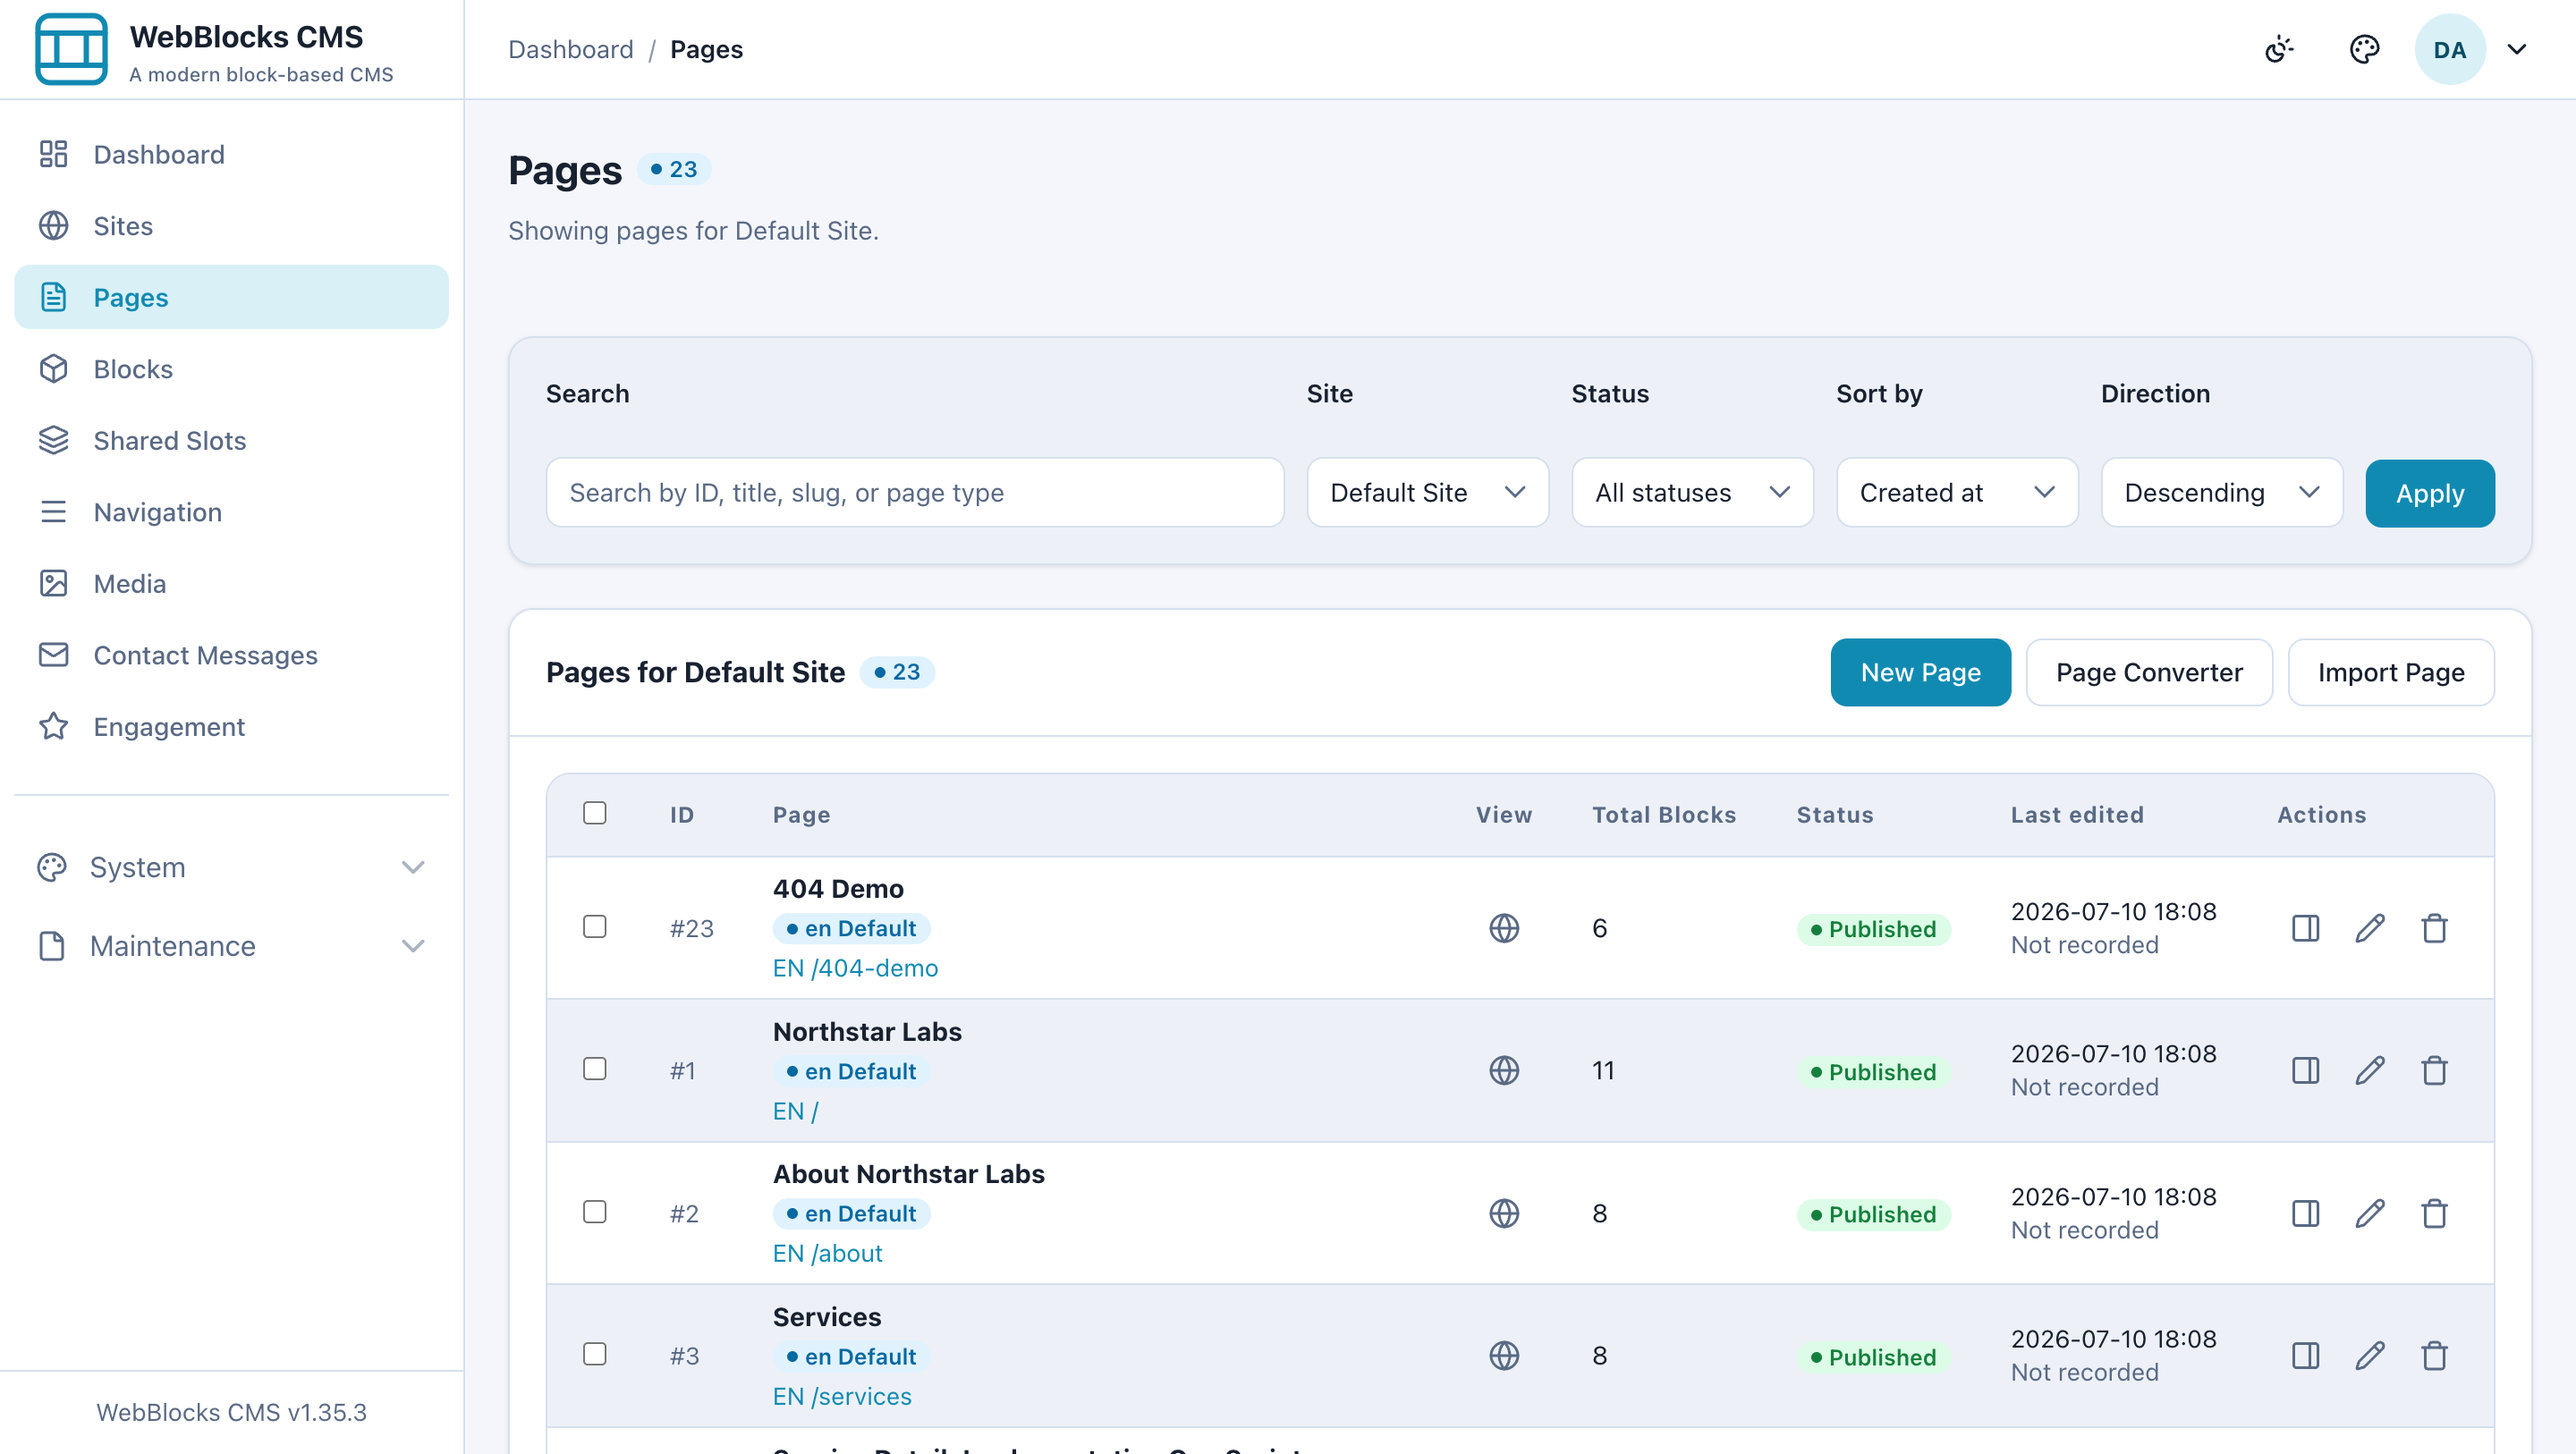
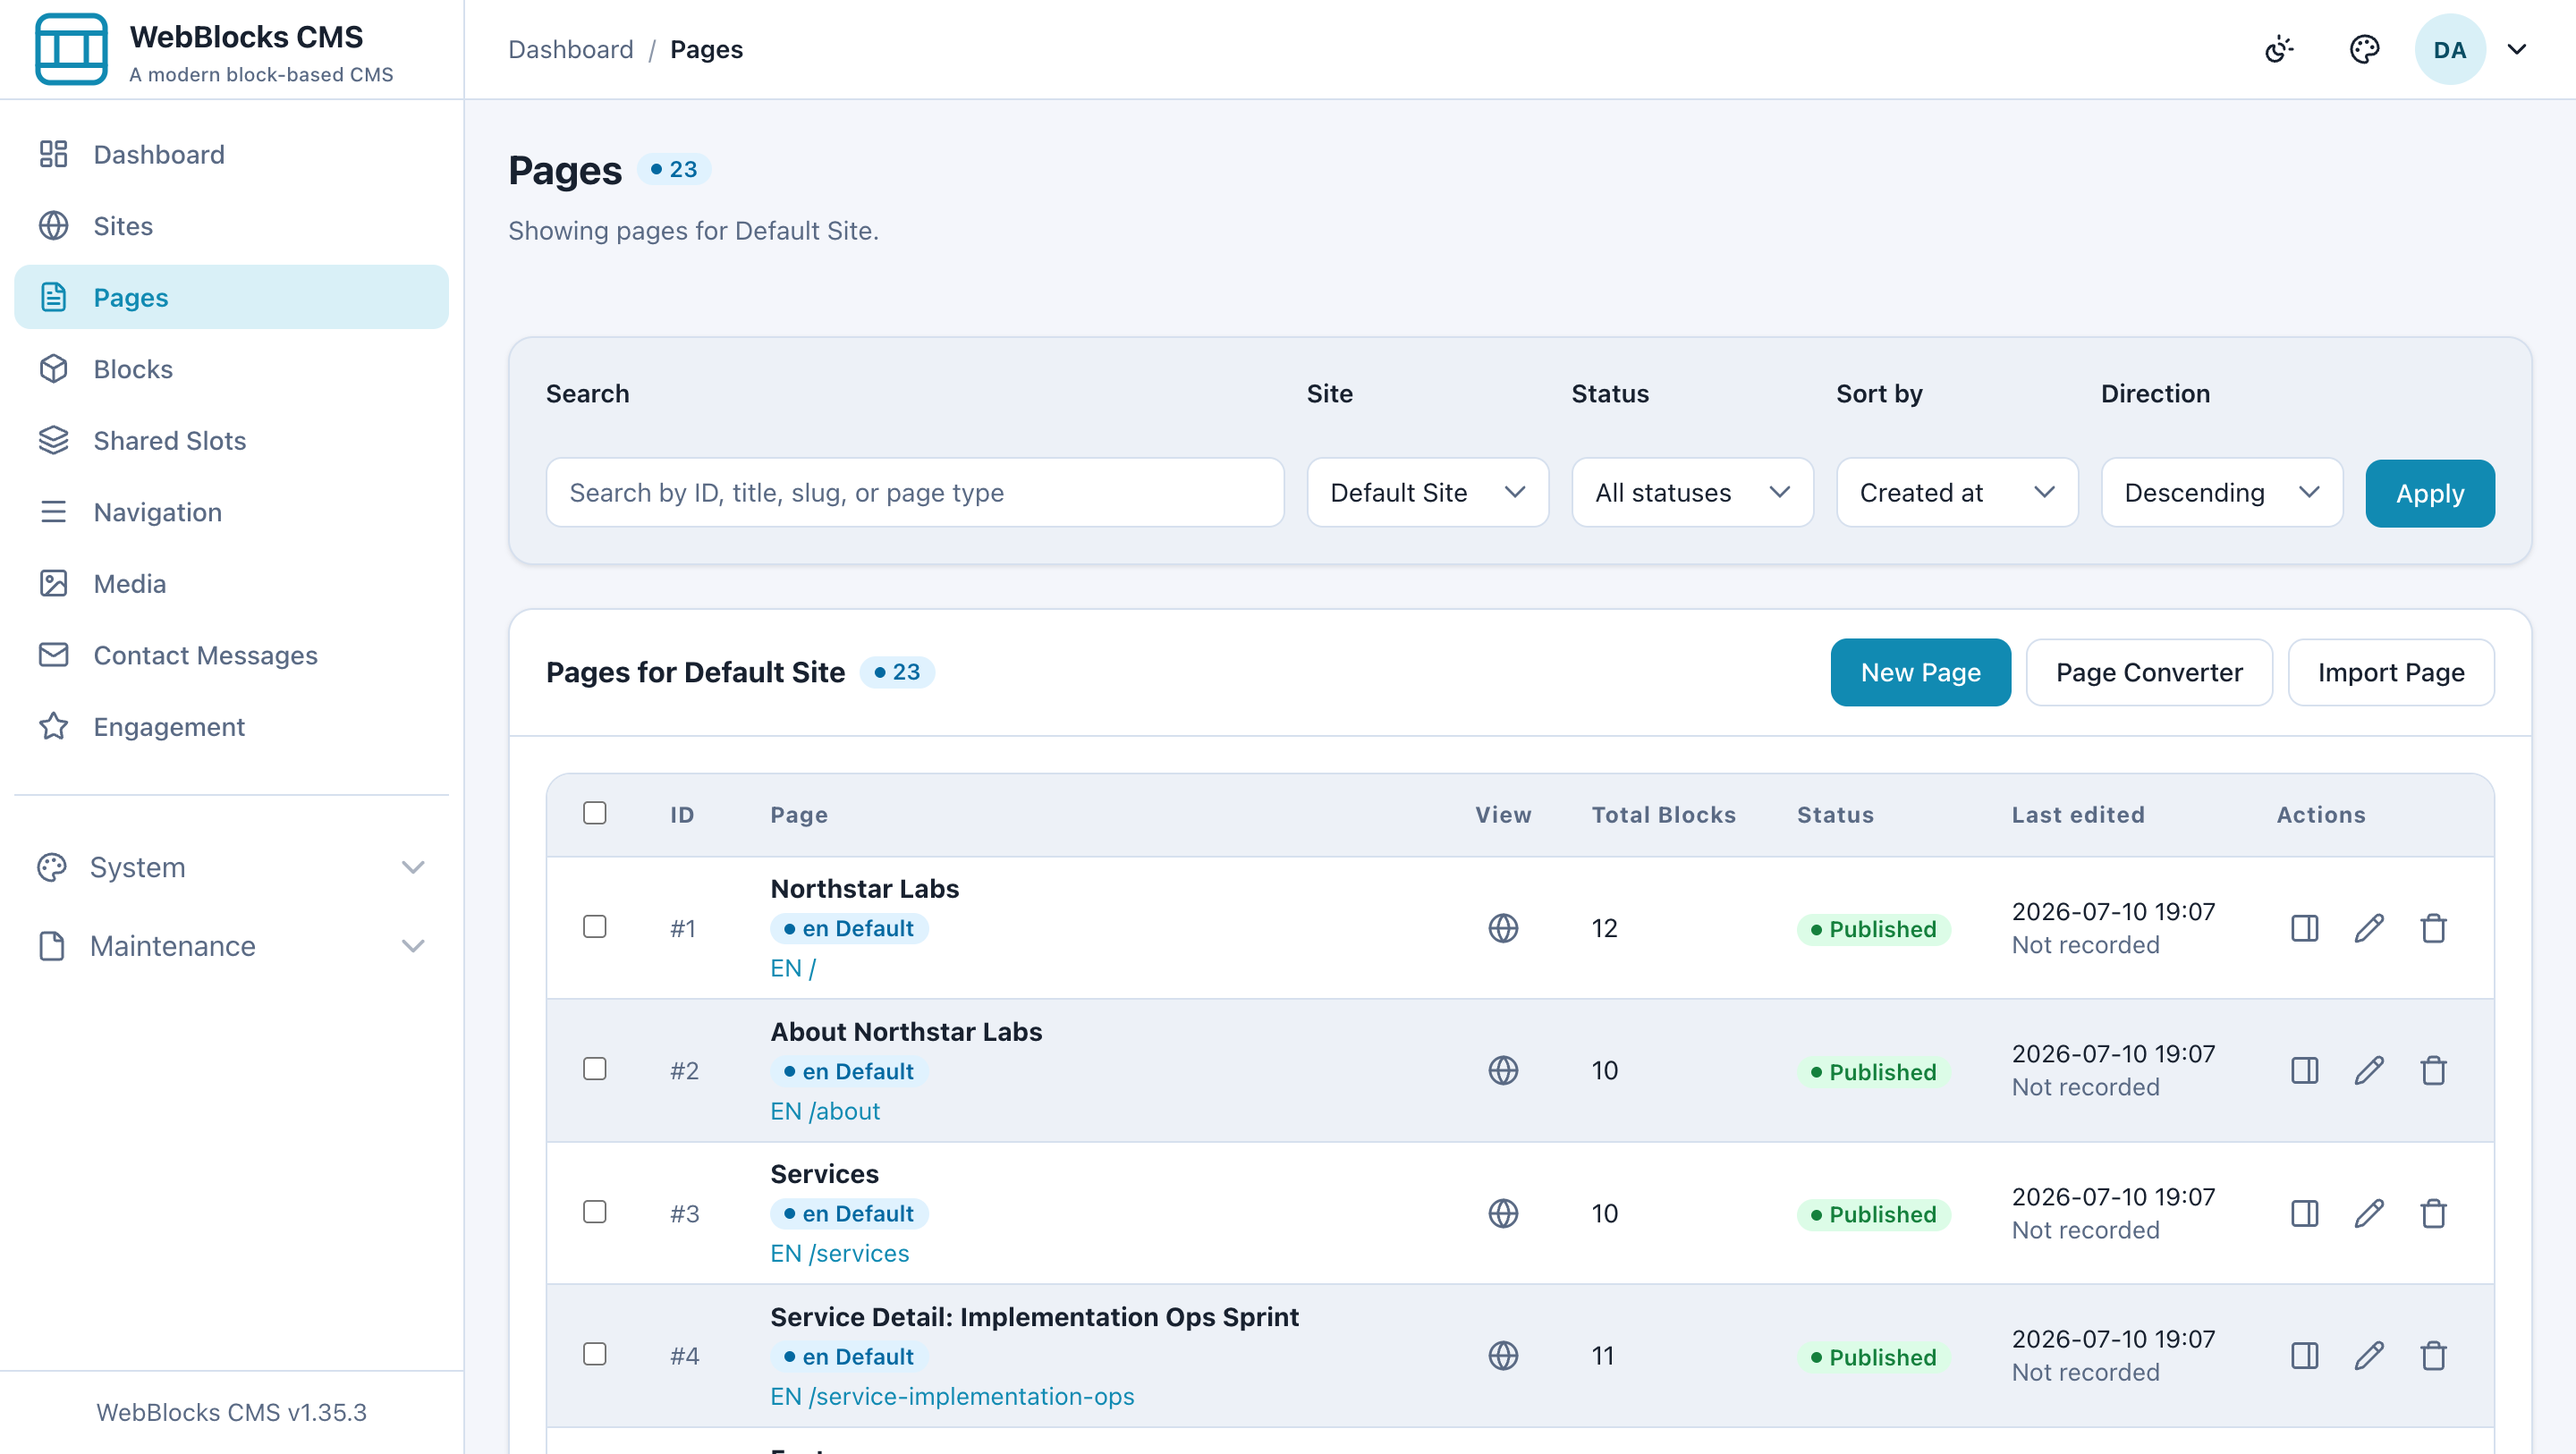
Polish the public demo theme and add a public-site screenshot
Compose the showcase header from sticky-navbar + navbar-brand +
navbar-navigation so the public nav renders as a real navbar with dropdowns
instead of a flat expanded list. Replace the placeholder-looking generated
imagery with an abstract gradient. Make the home page lead with a proper hero
block and render the feature grid as feature-item cards. Add the public-home
screenshot to the README.

diff --git a/database/seeders/FullShowcaseSeeder.php b/database/seeders/FullShowcaseSeeder.php
@@ -379,8 +379,18 @@ class FullShowcaseSeeder extends Seeder
   {
     return [
       [
-        'type' => 'navigation-auto',
-        'menu_key' => NavigationItem::MENU_PRIMARY,
+        'type' => 'sticky-navbar',
+        'settings' => ['sticky_mode' => 'static'],
+        'children' => [
+          [
+            'type' => 'navbar-brand',
+            'title' => 'Northstar Labs',
+          ],
+          [
+            'type' => 'navbar-navigation',
+            'settings' => ['menu_key' => NavigationItem::MENU_PRIMARY],
+          ],
+        ],
       ],
     ];
   }
@@ -413,25 +423,11 @@ class FullShowcaseSeeder extends Seeder
         'slots' => [
           'main' => [
             [
-              'type' => 'section',
+              'type' => 'hero',
+              'subtitle' => 'WebBlocks CMS showcase',
               'title' => 'Structured publishing for teams that cannot afford chaos',
               'content' => 'Northstar Labs is a demo company showing how WebBlocks CMS can power services, documentation, marketing, and operational content from one editorial foundation.',
-              'children' => [
-                ['type' => 'button', 'title' => 'Explore services', 'url' => $this->pageUrl('services'), 'variant' => 'primary'],
-                ['type' => 'button', 'title' => 'Read the guide', 'url' => $this->pageUrl('documentation-guide'), 'variant' => 'ghost'],
-              ],
-            ],
-            [
-              'type' => 'image',
-              'title' => 'Editorial command center',
-              'subtitle' => 'Modern workspace with laptop and desk',
-              'asset_key' => $this->preferredAssetKey('home-hero-01', 'hero-home'),
-            ],
-            [
-              'type' => 'slider',
-              'title' => 'A quick tour of the working environment',
-              'subtitle' => 'Curated workspace and collaboration scenes from the local demo media library.',
-              'gallery_asset_keys' => $this->preferredGalleryAssetKeys(['gallery-01', 'gallery-02', 'gallery-03', 'gallery-04'], ['gallery-ops-wall', 'gallery-dashboard', 'gallery-workshop']),
+              'variant' => 'accent',
             ],
             [
               'type' => 'stats',
@@ -449,12 +445,10 @@ class FullShowcaseSeeder extends Seeder
               'type' => 'feature-grid',
               'title' => 'What this demo highlights',
               'content' => 'Use the pages below to inspect real editorial combinations rather than isolated samples.',
-              'settings' => [
-                'items' => [
-                  ['title' => 'Reusable page patterns', 'content' => 'Compare archive pages, detail pages, legal content, and utility flows.'],
-                  ['title' => 'Media-backed components', 'content' => 'Images, galleries, downloads, audio, and file assets are wired into the CMS library.'],
-                  ['title' => 'System-aware blocks', 'content' => 'Navigation, related content, auth, page metadata, and legal outputs all render meaningful demo data.'],
-                ],
+              'children' => [
+                ['type' => 'feature-item', 'title' => 'Reusable page patterns', 'content' => 'Compare archive pages, detail pages, legal content, and utility flows.'],
+                ['type' => 'feature-item', 'title' => 'Media-backed components', 'content' => 'Images, galleries, downloads, audio, and file assets are wired into the CMS library.'],
+                ['type' => 'feature-item', 'title' => 'System-aware blocks', 'content' => 'Navigation, related content, auth, page metadata, and legal outputs all render meaningful demo data.'],
               ],
             ],
             [
@@ -1312,25 +1306,44 @@ class FullShowcaseSeeder extends Seeder
   private function buildSvg(string $title, string $accent, string $surface, int $width, int $height, bool $logoMode): string
   {
     $safeTitle = e($title);
-    $titleSize = $logoMode ? 64 : 60;
-    $subtitle = $logoMode ? 'Demo partner asset' : 'WebBlocks CMS showcase asset';
-    $heightMinus = max(220, $height - 320);
-    $widthMinus = max(320, $width - 240);
-    $widthMinusSmall = max(260, $width - 420);
-    $titleY = $logoMode ? 210 : 400;
-    $subtitleY = $logoMode ? 280 : 460;
+
+    if ($logoMode) {
+      $cx = intdiv($width, 2);
+      $cy = intdiv($height, 2);
+      $r = (int) (min($width, $height) * 0.3);
+      $initial = e(mb_strtoupper(mb_substr(trim($title) ?: 'W', 0, 1)));
+      $fontSize = (int) ($r * 1.05);
+
+      return <<<SVG
+<svg xmlns="http://www.w3.org/2000/svg" width="{$width}" height="{$height}" viewBox="0 0 {$width} {$height}" role="img" aria-label="{$safeTitle}">
+  <rect width="{$width}" height="{$height}" fill="{$surface}" rx="36" />
+  <circle cx="{$cx}" cy="{$cy}" r="{$r}" fill="{$accent}" />
+  <text x="{$cx}" y="{$cy}" fill="#ffffff" font-family="Arial, Helvetica, sans-serif" font-size="{$fontSize}" font-weight="700" text-anchor="middle" dominant-baseline="central">{$initial}</text>
+</svg>
+SVG;
+    }
+
+    // Abstract gradient scene so demo imagery reads as intentional art
+    // instead of a skeleton placeholder.
+    $r1 = (int) ($width * 0.42);
+    $r2 = (int) ($width * 0.32);
 
     return <<<SVG
-<svg xmlns="http://www.w3.org/2000/svg" width="{$width}" height="{$height}" viewBox="0 0 {$width} {$height}" role="img" aria-labelledby="title desc">
-  <title id="title">{$safeTitle}</title>
-  <desc id="desc">{$subtitle}</desc>
-  <rect width="{$width}" height="{$height}" fill="{$surface}" rx="36" />
-  <circle cx="140" cy="140" r="84" fill="{$accent}" opacity="0.95" />
-  <rect x="120" y="{$heightMinus}" width="{$widthMinus}" height="120" rx="24" fill="{$accent}" opacity="0.18" />
-  <rect x="120" y="220" width="{$widthMinus}" height="18" rx="9" fill="#ffffff" opacity="0.16" />
-  <rect x="120" y="260" width="{$widthMinusSmall}" height="18" rx="9" fill="#ffffff" opacity="0.12" />
-  <text x="120" y="{$titleY}" fill="#ffffff" font-family="Arial, Helvetica, sans-serif" font-size="{$titleSize}" font-weight="700">{$safeTitle}</text>
-  <text x="120" y="{$subtitleY}" fill="#e2e8f0" font-family="Arial, Helvetica, sans-serif" font-size="28">{$subtitle}</text>
+<svg xmlns="http://www.w3.org/2000/svg" width="{$width}" height="{$height}" viewBox="0 0 {$width} {$height}" role="img" aria-label="{$safeTitle}">
+  <defs>
+    <linearGradient id="bg" x1="0" y1="0" x2="1" y2="1">
+      <stop offset="0" stop-color="{$accent}" />
+      <stop offset="1" stop-color="{$surface}" />
+    </linearGradient>
+    <radialGradient id="glow" cx="0.28" cy="0.22" r="0.85">
+      <stop offset="0" stop-color="#ffffff" stop-opacity="0.30" />
+      <stop offset="1" stop-color="#ffffff" stop-opacity="0" />
+    </radialGradient>
+  </defs>
+  <rect width="{$width}" height="{$height}" fill="url(#bg)" rx="36" />
+  <circle cx="{$width}" cy="0" r="{$r1}" fill="#ffffff" opacity="0.08" />
+  <circle cx="0" cy="{$height}" r="{$r2}" fill="#000000" opacity="0.14" />
+  <rect width="{$width}" height="{$height}" fill="url(#glow)" rx="36" />
 </svg>
 SVG;
   }

diff --git a/README.md b/README.md
@@ -23,6 +23,10 @@ deployment stays simple on ordinary PHP hosting.
 
 ## Screenshots
 
+![A public site built with WebBlocks CMS](docs/images/public-home.png)
+
+*A public page rendered from blocks — navigation, hero, and a feature grid, all editable in the admin.*
+
 ![WebBlocks CMS operator dashboard](docs/images/admin-dashboard.png)
 
 *The operator dashboard — publishing state, quick actions, and recent content at a glance.*
@@ -31,7 +35,7 @@ deployment stays simple on ordinary PHP hosting.
 
 *Multisite page management with search, filters, block counts, and per-page actions.*
 
-<!-- TODO: add a public-site screenshot and a live demo link once the public demo theme is polished. -->
+<!-- TODO: add a live demo link once the public demo is deployed to a host. -->
 
 ## Highlights
 
